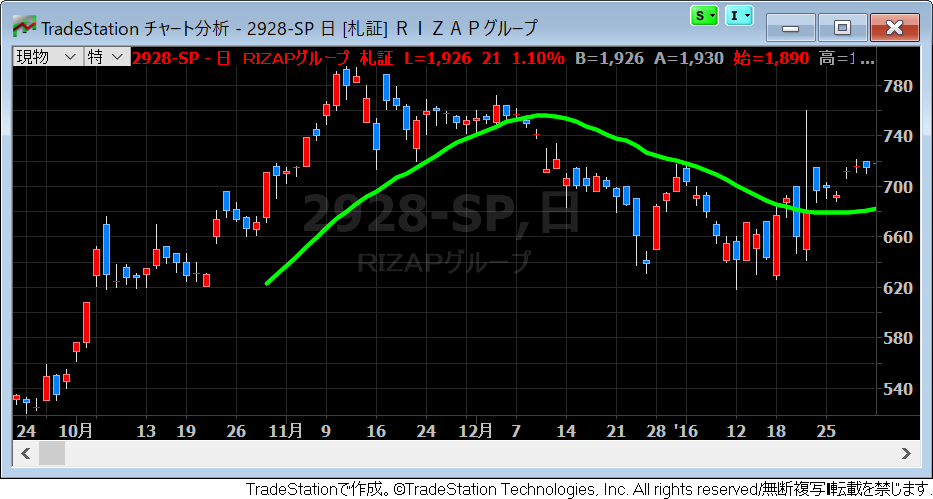
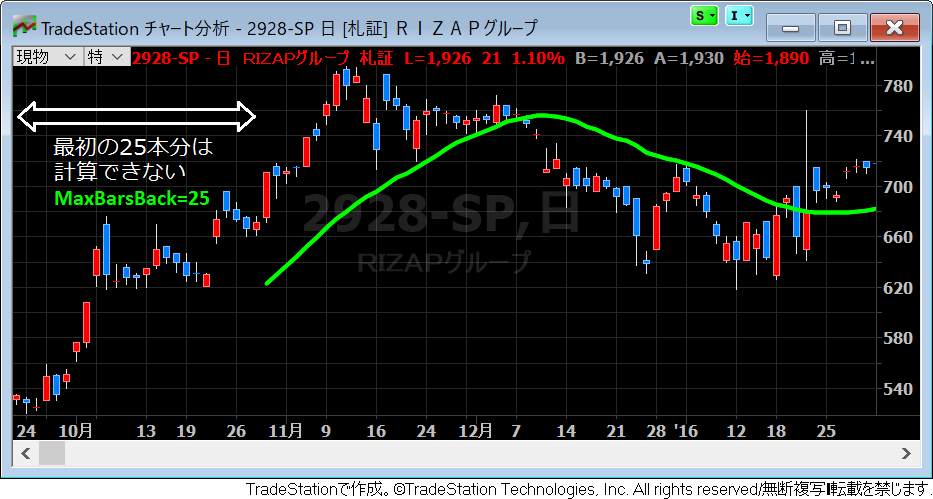
TradeStation articles

Changed region(s): [[0.0, 0.2104, 0.2797, 0.4208]]

diff --git a/tradestation/basic/max-bars-back.md b/tradestation/basic/max-bars-back.md
@@ -7,21 +7,24 @@ description: "トレードステーションには、インジケーターの無
 25 本移動平均線の MaxBarsBack の値
 ----
 
-例えば、25本分の移動平均線を引くには、過去に25本分の情報が必要になるので、少なくともチャートの最初の24本は計算することができません。
+例えば、終値の25本分の移動平均線を引くには、過去に25本分の情報が必要になるので、少なくともチャートの最初の25本分の終値が確定するまでは計算することができません。
 
 ![max-bars-back.png](./max-bars-back.png){: .center}
 
 上記のチャートは、25本の移動平均線のインジケーターを適用して、データの最初の部分を表示したものです。
-最初の方のバーは計算ができないので、移動平均線が表示されていないことが分かります。
+最初の方のバーは計算ができないので、25本目までは移動平均線が表示されていないことが分かります。
 
 25本の移動平均線を引くためのインジケータのプログラムは、例えば下記のような感じで記述できます。
-ラインを価格のチャートに重ねて表示するには、インジケーターのプロパティ設定で、スケール位置を「元データに軸を合わせる」に設定しておく必要があることに注意してください。
 
 ~~~
 SetPlotColor(1, Green);  // 色: グリーン
 SetPlotWidth(1, 3);      // 太さ: 3
 Plot1(Average(Close, 25));
 ~~~
+
+<div class="note"
+ラインを価格のチャートに重ねて表示するには、インジケーターのプロパティ設定で、スケール位置を「元データに軸を合わせる」に設定しておく必要があることに注意してください。
+</div>
 
 このようなインジケーターをチャートに適用すると、トレードステーションは内部で自動的に、過去何本分のバーが計算に必要かを計算し、**`MaxBarsBack`** というプロパティに格納します。
 この例では、`MaxBarsBack` の値は 25 になります。
@@ -30,42 +33,44 @@ Plot1(Average(Close, 25));
 Print("MaxBarsBack=", MaxBarsBack:0:0);  // 25 と表示される
 ~~~
 
-インジケーターの計算処理は、基本的にはバー１本ごとに実行されるのですが、`MaxBarsBack` が 25 であれば、最初の 24 本のバーでは計算することができないことが分かっています。
-このような場合、トレードステーションは処理を最適化するために、24 本分のバーの計算をスキップするようになっています（25本目のバーからインジケーターの計算処理が行われます）。
+インジケーターの計算処理は、基本的にはバー1本ごとに実行されるのですが、`MaxBarsBack` が 25 であれば、最初の 25 本のバーでは計算することができないことが分かっています。
+このような場合、トレードステーションは処理を最適化するために、25 本分のバーの計算をスキップするようになっています（26本目のバーからインジケーターの計算処理が行われます）。
 
-現在処理中のバーの番号を取得するためのキーワードとして `CurrentBar` や `BarNumber` がありますが、この値が１になるのは、チャートの一番最初のバーではなく、`MaxBarsBack` の次のバーを示しています（計算処理が始まる最初のバーを示すということ）。
+現在処理中のバーの番号を取得するためのキーワードとして `CurrentBar` や `BarNumber` がありますが、この値が1になるのは、チャートの一番最初のバーではなく、`MaxBarsBack` の次のバーを示しています（計算処理が始まる最初のバーを示すということ）。
 
-ちなみに、自動売買のためのストラテジを作成するときは、`MaxBarsBack` の値は明示的に固定の値を指定する必要があります（ストラテジーのプロパティダイアログから）。ストラテジの `MaxBarsBack` の値は、デフォルトで 50 になっています。
+- 参考: [現在計算中のバーが何本目か調べる (CurrentBar, BarNumber)](current-bar.html)
+
+ちなみに、自動売買のためのストラテジを作成するときは、`MaxBarsBack` の値は明示的に固定の値を指定する必要があります（ストラテジーのプロパティダイアログで設定することができます）。
+ストラテジの `MaxBarsBack` の値は、デフォルトでは 50 に設定されています。
 
 
-コラム: MaxBarsBack のわかりにくい振る舞い
+コラム: 最初だけ MaxBarsBack = 1 になる？
 ----
 
-`MaxBarsBack` が 25 であれば、過去 24 本分のバーがあれば 25 本目のバーの計算が行えるはずですが（公式の EasyLanguage Essential Programmers Guide にもそう記載されている）、実際の動作では、26 本目のバーから計算処理が開始され、そのバーが `BarNumber==1` となるようです。ちょっと気になりますが、まぁ、一本ずれたところで特に問題はないので、深追いはしないようにします(^^;)
+`MaxBarsBack` が 25 であれば、過去 25 本分のバーの情報を使って、26 本目のバーから計算が行われるはずです（26 本目のバーが `CurrentBar==BarNumber[0]==1` となる）。
 
-あと、上記の例で `MaxBarsBack` は自動計算されて 25 と求められるのですが、インジケーターの最初の実行だけは、`MaxBarsBack==1` となるようです（なぜか `Once begin ～ end` のブロックが２回実行されるが、そのうちの１回目の処理は `MaxBarsBack==1` となる）。
+しかし、実際にはインジケータープログラムはそれとは別に、あらかじめ無条件で 1 回実行されるようです。
+そして、その 1 回目の実行中に  `MaxBarsBack` を参照すると 1 という想定外の値が得られます。
 試しに、下記のようなインジケータープログラムを実行すると、
 
 ~~~
 Once begin
-    Print("----");
-    Print("CurrentBar=", CurrentBar:0:0, ", Date=", Date+19000000:8:0);
-    Print("MaxBarsBack=", MaxBarsBack:0:0);
+    Print("MaxBarsBack=", MaxBarsBack:0:0,
+          ", CurrentBar=", CurrentBar:0:0,
+          ", Date=", Date+19000000:8:0);
 end;
 ~~~
 
-次のように表示されます。
+印刷ログに次のように表示されます。
 
 ~~~
-----
-CurrentBar=1, Date=20150924
-MaxBarsBack=1
-----
-CurrentBar=1, Date=20151029
-MaxBarsBack=25
+MaxBarsBack=1, CurrentBar=1, Date=20161108
+MaxBarsBack=25, CurrentBar=1, Date=20161213
 ~~~
 
-`Once` ブロックのはずなのに、なぜか２回実行されます。
-どうやら、`MaxBarsBack` などの初期化処理のために、１番左側のバーでは少なくとも１回インジケーターの計算処理が実行されるようです（計算処理がスキップされない）。
+そもそも `Once begin` ～ `end` で囲まれたブロックは、分析テクニックを適用した最初の 1 回しか実行されないはずなのに、2 回実行されちゃっています。
+そして、1 回目の実行時には `MaxBarsBack` の値が 1 というおかしな値になっています。
+
+どうやら、移動平均を計算するケースなどでは、`MaxBarsBack` などの値を自動計算するために、初期化処理として 1 度だけ無条件でインジケーターの処理が実行されるようです（計算の必要がない場合は、この初期化処理は実行されない）。
 そして、その処理によって `MaxBarsBack` の値が 25 であることが判明し、25本分のバーをスキップして、改めて `Once` ブロックから処理が再実行されるというメカニズムのようです。
 

diff --git a/tradestation/ui/radar.md b/tradestation/ui/radar.md
@@ -1,0 +1,67 @@
+---
+title: "レーダースクリーンの操作をマスターする"
+date: "2018-11-04"
+---
+
+レーダースクリーンに銘柄を追加する
+----
+
+### 銘柄コードで追加
+
+![radar.gif](radar.gif){: .center }
+
+レーダーチャートのセルを選択した状態で、銘柄コードを入力して <kbd>Enter</kbd> を押すだけで、次々と銘柄を追加していくことができます。
+
+逆に、登録された銘柄を削除するには、対象の銘柄のセルを選択した状態で <kbd>Delete</kbd> キーを押します。
+<kbd>Ctrl-A</kbd> で全銘柄を選択した状態で <kbd>Delete</kbd> キーを押せば、全銘柄を一気に削除することができます。
+
+### 銘柄名で検索して追加
+
+銘柄コードが分からない場合は、下記のように「銘柄名」で検索して追加することができます。
+
+1. レーダーチャートを<kbd>右クリック</kbd> → <kbd><samp>銘柄コードを挿入</samp></kbd> を選択。あるいは、<kbd><kbd>Alt</kbd>+<kbd>S</kbd></kbd> を入力
+2. <kbd><samp>検索</samp></kbd> ボタンをクリック。あるいは <kbd><kbd>Alt</kbd>+<kbd>L</kbd></kbd> を入力
+3. 「株式」タブで銘柄名を入力して <kbd>Enter</kbd>
+4. 見つかった銘柄を選択した状態で <kbd><samp>OK</samp></kbd> ボタンをクリック
+
+
+レーダースクリーンの銘柄をドラッグ＆ドロップで移動する
+----
+
+![radar-drag-move.gif](radar-drag-move.gif){: .center }
+
+下記のようにすると、登録したシンボルの位置（行）をドラッグ＆ドロップで移動することができます。
+
+1. 移動する銘柄の行番号をクリックして選択状態にする（ドラッグで複数の銘柄を選択することも可能）
+2. 選択された状態の行番号を、さらにドラッグして移動させたい場所へドロップ（移動先に赤矢印が表示されます）
+
+未選択の状態からいきなりドラッグ＆ドロップすることはできないことに注意してください。
+移動させるセルをあらかじめ選択状態にしておく必要があります。
+一見面倒に感じるかもしれませんが、この仕様のおかげで、複数のセルをドラッグして選択しておいて、まとめて移動させることができるようになっています。
+
+
+レーダースクリーンにラベル行を追加して銘柄をグルーピングする
+----
+
+![radar-label.gif](radar-label.gif){: .center }
+
+レーダースクリーンに多くの銘柄を登録する場合は、ラベル行を追加して銘柄をグルーピングしておくとよいでしょう。
+
+1. ラベルを挿入したい行の銘柄コードのセルを<kbd>右クリック</kbd> → <kbd><samp>ラベル行を挿入</samp></kbd> を選択する
+2. 「ラベル行」という名前のラベル行が追加されるので、<kbd>ダブルクリック</kbd> するか <kbd>F2</kbd> キーを押して好きな名前に変更する
+
+
+レーダースクリーンにシンボルリスト（日経225銘柄など）を一度に登録する
+----
+
+複数の銘柄をリスト化したものを**シンボルリスト**と言います。
+例えば、日経225銘柄のシンボルリストを利用すると、レーダースクリーンに日経225銘柄を一度に登録することができます。
+
+1. 銘柄を挿入したい場所の銘柄コードのセルを<kbd>右クリック</kbd> → <kbd><samp>シンボルリストを挿入</samp></kbd> を選択。
+2. 「シンボルリストを挿入」のダイアログの中から、登録したいシンボルリストを選択する（ここでは <samp>日経平均株価(225)</samp> を選択する）。
+![radar-n225-1.png](radar-n225-1.png){: .center }
+3. <samp>日経平均株価 (225)</samp> というラベル名と共に、225銘柄のシンボルが登録されます。
+![radar-n225-2.png](radar-n225-2.png){: .center }
+
+他にも、TOPIC Core 30 などのシンボルリストが組み込みで用意されています。
+

diff --git a/tradestation/basic/current-bar.md b/tradestation/basic/current-bar.md
@@ -1,0 +1,68 @@
+---
+title: "現在計算中のバーが何本目か調べる (CurrentBar, BarNumber)"
+date: "2018-11-07"
+---
+
+CurrentBar
+----
+
+**`CurrentBar`** は、現在計算中のバーが何本目であるかを示しています。
+より正確には、`MaxBarsBack` 番目のバーから計算することになるので、例えば、`MaxBarsBack` の値が 15 の場合、チャート上の 16 番目のバーが `CurrentBar=1` となります。
+
+- 参考: [インジケーターの計算が何本目のバーから始められるか (MaxBarsBack)](max-bars-back.html)
+
+#### 実装例
+
+~~~
+Print("CurrentBar=", CurrentBar:0:0);
+~~~
+
+<div class="note">
+<code>CurrentBar:0:0</code> の後ろの <code>:0:0</code> の部分は、小数点数以下を省略して表示するための桁数設定です。そもそも足の番号は整数でしかありえないのですが、トレードステーションの仕様として実数として扱われてしまうのでこのような指定が必要です。
+</div>
+
+#### 出力結果（印刷ログ）
+
+~~~
+CurrentBar=1
+CurrentBar=2
+CurrentBar=3
+...
+CurrentBar=83
+CurrentBar=84
+CurrentBar=85
+~~~
+
+`MaxBarsBack` が 15 のとき、上記のように表示された場合は、チャート上のバーは全部で 100 本 (=15+85) 存在することになります。
+
+
+BarNumber
+----
+
+**`BarNumber`** も `CurrentBar` と同様に、バーの番号を取得するために用意されています。
+`CurrentBar` が現在処理中の足の番号を取得する単純な予約ワードなのに対して、`BarNumber` はシリーズ関数として定義されており、n 本前の足の番号を参照することができるようになっています。
+
+`BarNumber` と `CurrentBar[0]` はまったく同じ意味で、現在処理中のバーの番号を表します（`CurrentBar[0]` は `CurrentBar` と省略できます）。
+`CurrentBar[1]` は、1 つ前のバーの番号を表します。
+
+#### 実装例
+
+~~~
+Print("CurrentBar=", CurrentBar:0:0,
+      ", BarNumber[0]=", BarNumber[0]:0:0,
+      ", BarNumber[1]=", BarNumber[1]:0:0);
+~~~
+
+#### 出力結果（印刷ログ）
+
+~~~
+...
+CurrentBar=40, BarNumber[0]=40, BarNumber[1]=39
+CurrentBar=41, BarNumber[0]=41, BarNumber[1]=40
+CurrentBar=42, BarNumber[0]=42, BarNumber[1]=41
+...
+~~~
+
+`BarNumber[1]` は 1 本前のバーの番号なので、`CurrentBar` や `BarNumber[0]` と比べて値が 1 つ小さいことがわかると思います。
+まぁ、`CurrentBar - 1` としても同じ値が得られるんですけどね。。。
+

diff --git a/tradestation/index.md b/tradestation/index.md
@@ -3,21 +3,25 @@ title: トレードステーション
 layout: category-index
 ---
 
-環境
+トレードステーション全般
 ====
 
+環境
+----
 * [トレードステーションをインストールする](env/install.html)
 * [トレードステーションの画面構成を理解する](env/structure.html)
 * [チャートのスクリーンキャプチャを取得する](env/capture.html)
 * [組み込みインジケーターのコードを読んで勉強する](env/builtin-indicator.html)
 
 チャート分析
-====
+----
 * [ポイントアンドフィギュア (P&F) を表示する](chart/point-and-figure.html)
 
 操作
-====
+----
+* [レーダースクリーンの操作をマスターする](ui/radar.html)
 * [ショートカットキーを使いこなす](env/shortcut-key.html)
+
 
 EasyLanguage
 ====
@@ -26,10 +30,13 @@ EasyLanguage
 ----
 * [インジケーター名の命名規則](naming.html)
 * [Print 関数によるデバッグ](io/print.html)
-* [インジケーターの計算が何本目のバーから始められるか (MaxBarsBack)](basic/max-bars-back.html)
 * [各バーに注釈を付ける (Commentary, CommentaryCL)](chart/commentary.html)
 * [チャートのバータイプ、足種を取得する (BarType, BarInterval)](chart/bar-type.html)
-* [四本値（始値、高値、安値、終値）を取得する](ohlc.html)
+* [四本値（始値、高値、安値、終値）を取得する (O, H, L, C)](ohlc.html)
+
+### 特殊変数
+* [インジケーターの計算が何本目のバーから始められるか (MaxBarsBack)](basic/max-bars-back.html)
+* [現在計算中のバーが何本目か調べる (CurrentBar, BarNumber)](basic/current-bar.html)
 
 構文
 ----

diff --git a/tradestation/chart/commentary.md b/tradestation/chart/commentary.md
@@ -1,7 +1,7 @@
 ---
 title: "EasyLanguage: 各バーに注釈を付ける (Commentary, CommentaryCL)"
 date: "2017-09-17"
-description: "Commentary 機能を使用すると、各バー（足）に注釈テキストを設定することができます。"
+description: "Commentary 機能を使用すると、各バー（足）に注釈テキスト（分析コメント）を設定することができます。"
 ---
 
 ![commentary.png](./commentary.png){: .center}
@@ -54,4 +54,14 @@ if AtCommentaryBar then begin
     CommentaryCL("<font color='blue'>終値</font>=", Close:0:0);
 end;
 ~~~
+
+
+トラブルシューティング: コメントを作成する分析テクニックは適用されていません
+----
+
+`Commentary` 関数や `CommentaryCL` 関数でバーに対するコメントを設定したのに、「分析コメント」のウィンドウで、下記のように表示される場合は、その分析ストラテジーがデバッグモードで実行されている可能性があります（開発環境から <kbd>F5</kbd> などで実行している）。
+
+![commentary-2.png](commentary-2.png){: .center }
+
+分析コメントを正しく設定するには、チャート上で「分析テクニックの挿入」を使って分析テクニックをアタッチする必要があります。
 

diff --git a/tradestation/ohlc.md b/tradestation/ohlc.md
@@ -1,5 +1,5 @@
 ---
-title: "EasyLanguage: 四本値（始値、高値、安値、終値）を取得する"
+title: "EasyLanguage: 四本値（始値、高値、安値、終値）を取得する (O, H, L, C)"
 date: "2017-07-29"
 description: "Open、High、Low、Close という組み込みキーワードを使用して、代表的な四本値を取得することができます。"
 ---
